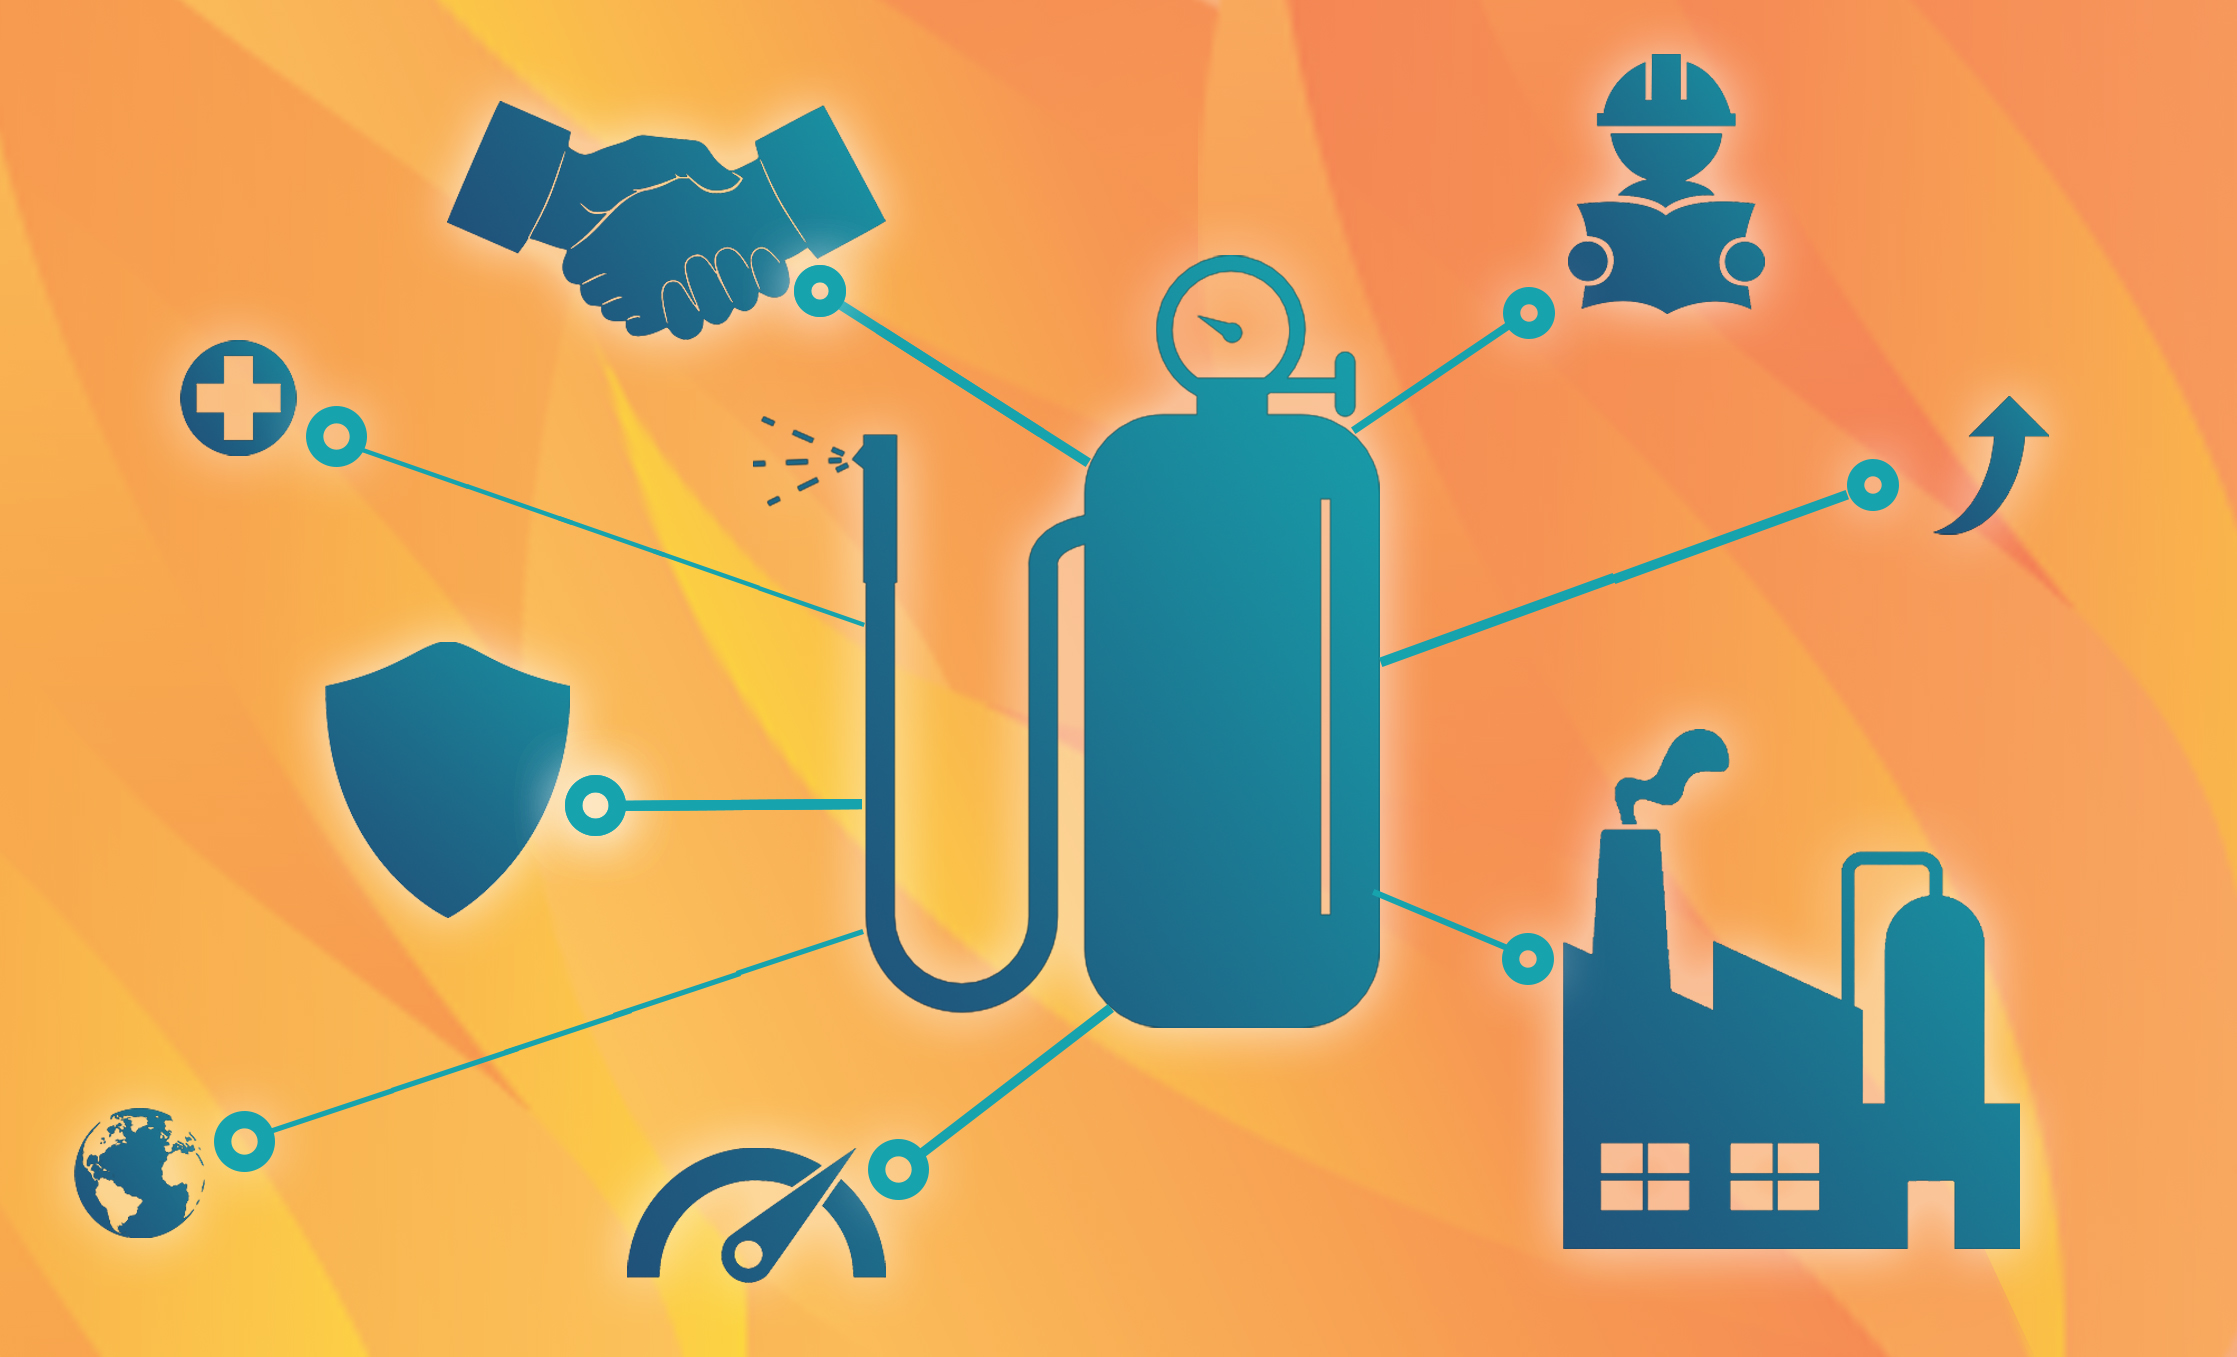
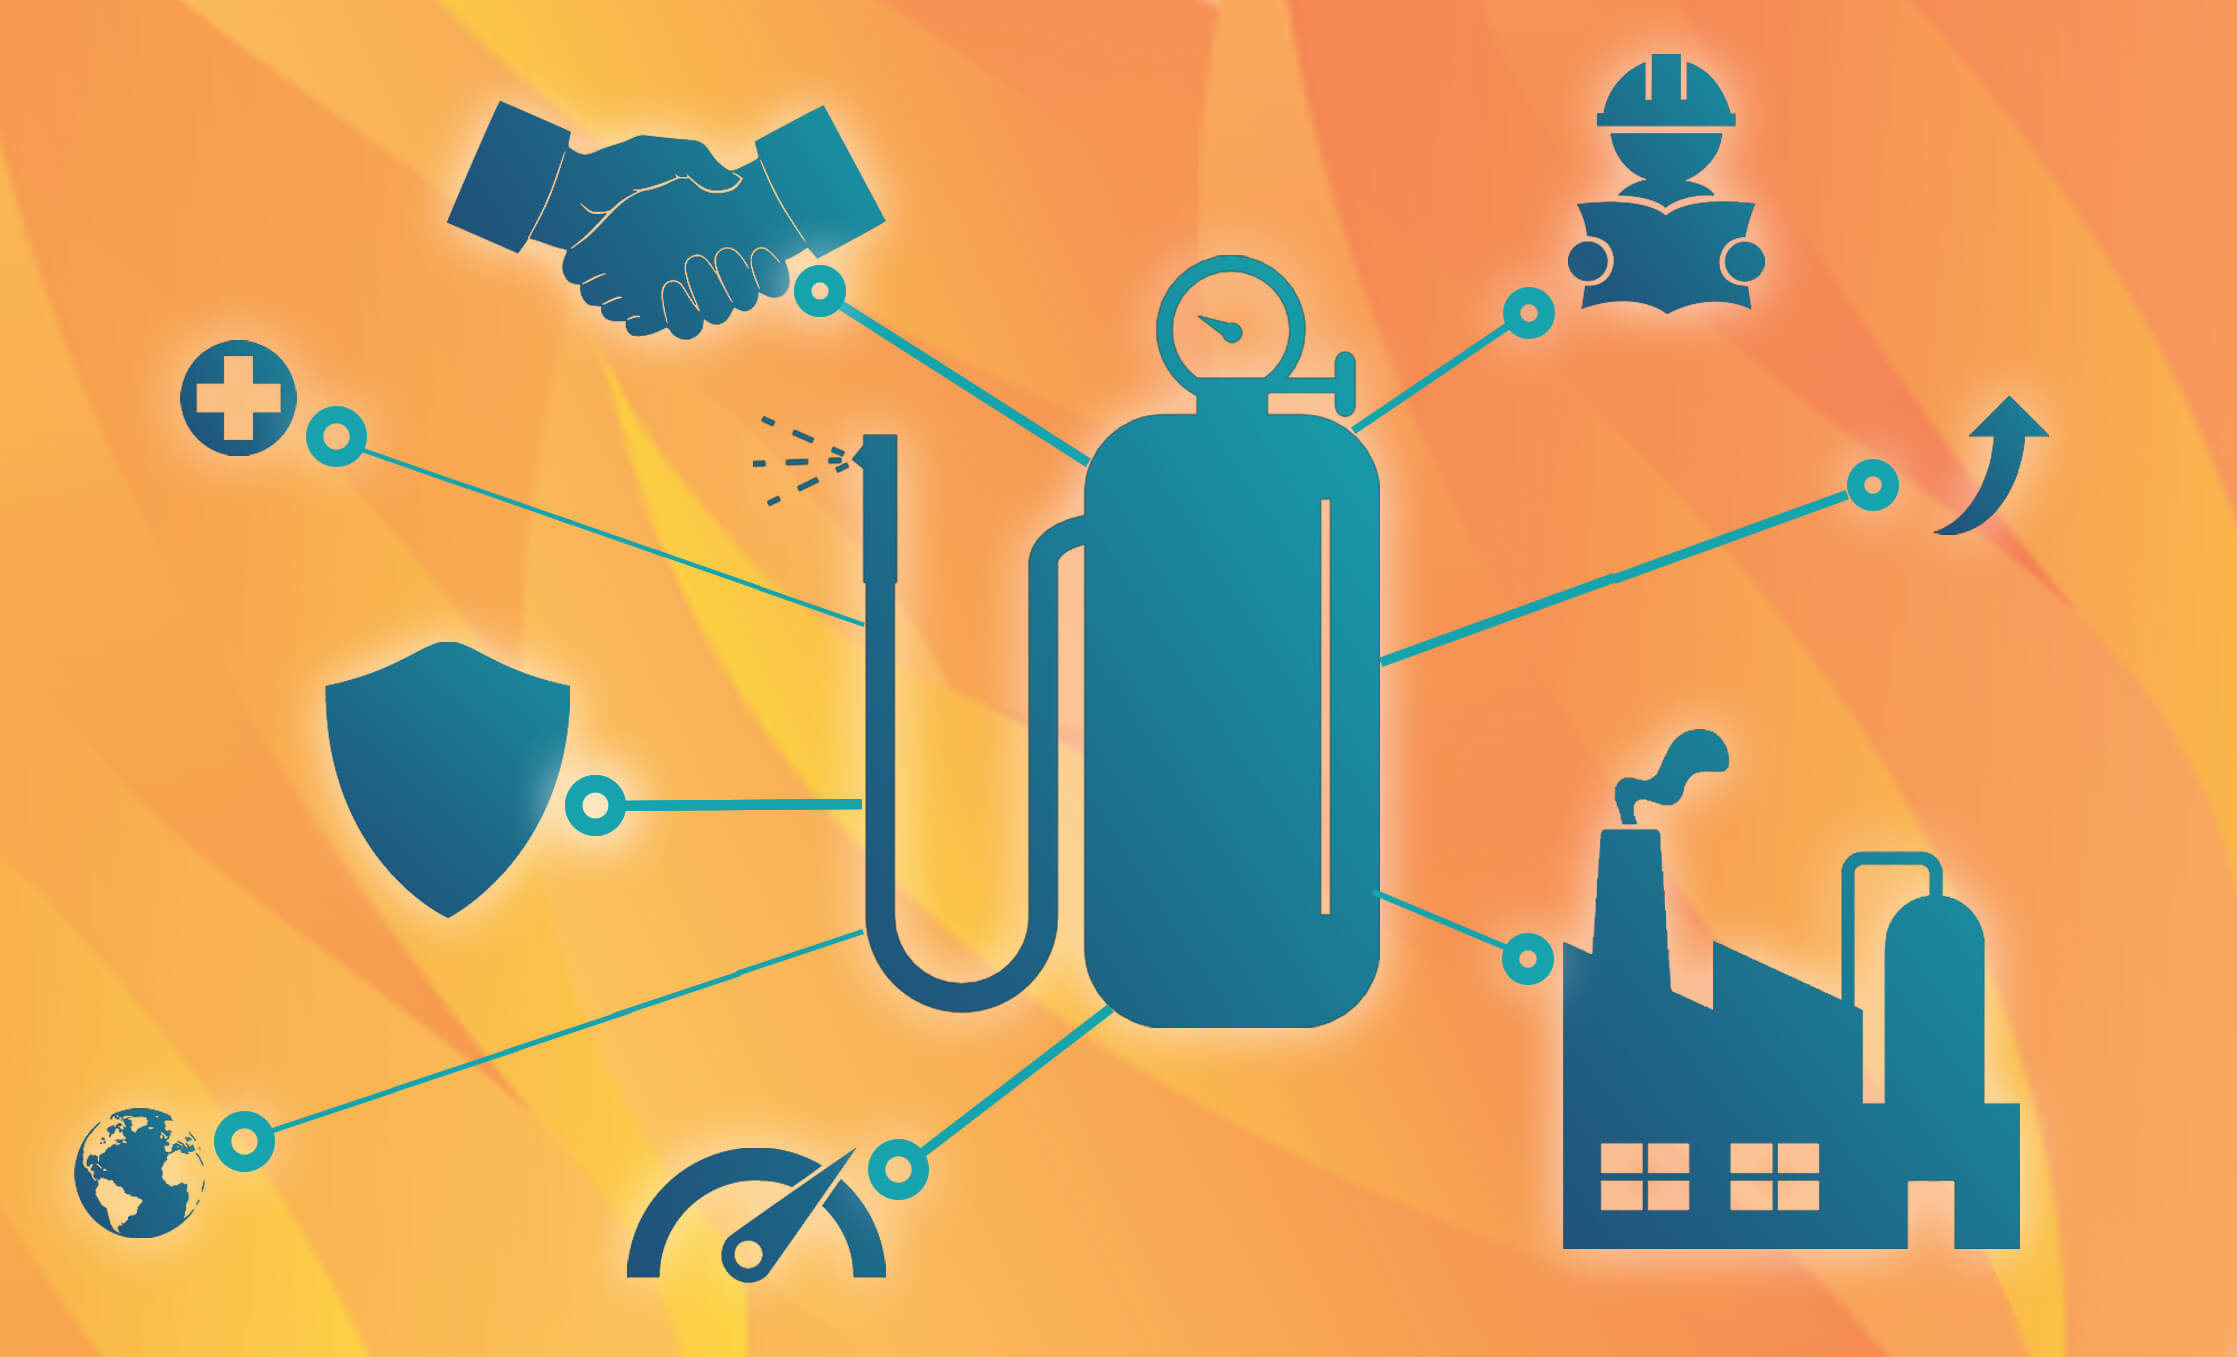
Live Site- Images compressed

diff --git a/index.html b/index.html
@@ -86,7 +86,7 @@
                                 </div>
 
                                 <div class="carousel-image-wrap">
-                                    <img src="assets/slide/slide01.png" class="img-fluid carousel-image" alt="O & T Enterprises industrial gas plant in Sri Lanka, showcasing the harmonization of manufacturing, supply, and cutting-edge solutions." data-bs-target="#carouselExampleCaptions" data-bs-slide="next">
+                                    <img src="assets/slide/slide01.jpg" class="img-fluid carousel-image" alt="O & T Enterprises industrial gas plant in Sri Lanka, showcasing the harmonization of manufacturing, supply, and cutting-edge solutions." data-bs-target="#carouselExampleCaptions" data-bs-slide="next">
                                 </div>
                             </div>
 
@@ -111,7 +111,7 @@
                                 </div>
 
                                 <div class="carousel-image-wrap">
-                                    <img src="assets/slide/slide03.png" class="img-fluid carousel-image" alt="Fleet of O & T Enterprises gas distribution trucks extending services across Sri Lanka, highlighting an extensive distribution network." data-bs-target="#carouselExampleCaptions" data-bs-slide="next">
+                                    <img src="assets/slide/slide03.jpg" class="img-fluid carousel-image" alt="Fleet of O & T Enterprises gas distribution trucks extending services across Sri Lanka, highlighting an extensive distribution network." data-bs-target="#carouselExampleCaptions" data-bs-slide="next">
                                 </div>
                             </div>
                             <div class="carousel-item">
@@ -123,7 +123,7 @@
                                 </div>
 
                                 <div class="carousel-image-wrap">
-                                    <img src="assets/slide/slide04.png" class="img-fluid carousel-image" alt="Close-up of precision gas meters used by O & T Enterprises for expert guidance in precise and strategic gas applications." data-bs-slide="next">
+                                    <img src="assets/slide/slide04.jpg" class="img-fluid carousel-image" alt="Close-up of precision gas meters used by O & T Enterprises for expert guidance in precise and strategic gas applications." data-bs-slide="next">
                                 </div>
                             </div>
                             <div class="carousel-item">

diff --git a/404.html b/404.html
@@ -1,0 +1,38 @@
+<!DOCTYPE html>
+<html lang="en">
+  <head>
+    <meta http-equiv="Content-Type" content="text/html; charset=UTF-8" />
+
+    <meta http-equiv="x-ua-compatible" content="ie=edge" />
+    <title>404 Error</title>
+    <meta name="viewport" content="width=device-width, initial-scale=1" />
+    <meta name="robots" content="noindex, nofollow" />
+    <style>
+      @media screen and (max-width: 500px) {
+        body {
+          font-size: 0.6em;
+        }
+      }
+    </style>
+  </head>
+
+  <body style="text-align: center">
+    <h1
+      style="
+        font-family: Georgia, serif;
+        color: #4a4a4a;
+        margin-top: 4em;
+        line-height: 1.5;
+      "
+    >
+      Sorry, this page doesn't exist.<br />Please check the URL or go back a
+      page.
+    </h1>
+
+    <h2
+      style="font-family: Verdana, sans-serif; color: #7d7d7d; font-weight: 300"
+    >
+      404 Error. Page Not Found.
+    </h2>
+  </body>
+</html>

diff --git a/css/custom.css b/css/custom.css
@@ -419,7 +419,7 @@ strong {
 }
 
 .section-hero {
-  background-image: url('../assets/products/product-details-hero.png');
+  background-image: url('../assets/products/product-details-hero.jpg');
   background-repeat: no-repeat;
   background-position: center;
   background-size: cover;

diff --git a/product-detail.html b/product-detail.html
@@ -323,7 +323,6 @@
                 </div>
                 </div>
             </section>
-
         </main>
 
         <!-- JAVASCRIPT FILES -->
